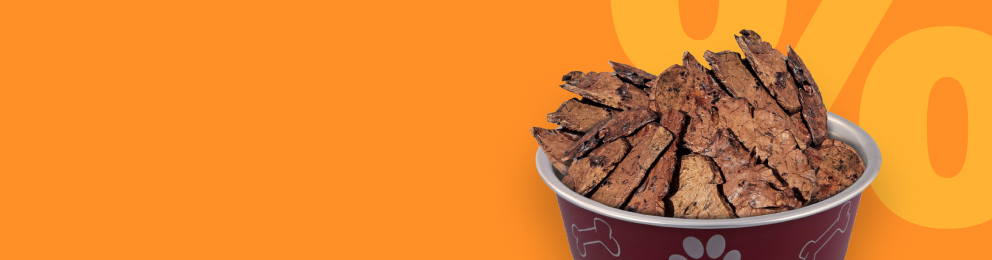
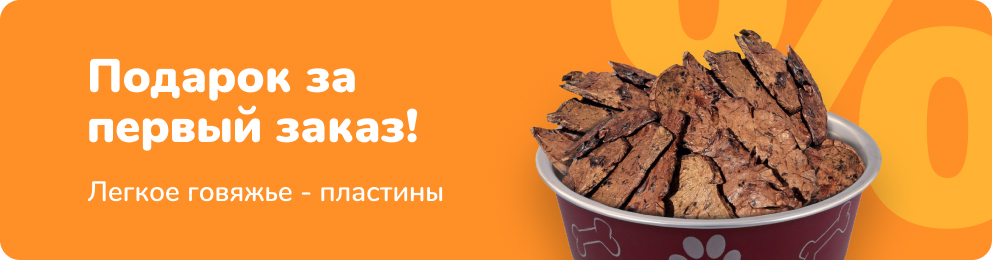
home page

diff --git a/src/pages/HomePage/home-page.jsx b/src/pages/HomePage/home-page.jsx
@@ -1,7 +1,9 @@
 import { Banner } from "../../components/Banner/banner"
 import { Hero } from "../../components/Hero/hero"
 import banner_sale from './img/banner.jpg';
-import banner_product from './img/banner_2.jpg';
+import banner_product1 from './img/banner_2.jpg';
+import banner_product2 from './img/banner_3.jpg';
+import h from './home.module.css'
 
 
 export const HomePage = () => {
@@ -40,24 +42,25 @@ export const HomePage = () => {
     return (
         <>
             <Hero />
-            <Banner 
-            extraClass='banner_big' 
-            title ='Подарок за первый заказ!'
-            subtitle ='Легкое говяжье - пластины'
-            bg={banner_sale}
-            colorBg="#FF8F27"
-            />
+            <div className="container">
+                <Banner
+                    extraClass='banner_big'
+                    bg={banner_sale}
+                />
+
+                <div className={h.banner__group}>
+                    <Banner
+                        extraClass='banner_middle'
+                        bg={banner_product1}
+                    />
 
 
-
-            <Banner 
-            extraClass='banner_middle'
-            title="Наборы"
-            subtitle="для дрессировки"
-            bg={banner_product}
-            price='от 840р'
-            colorBg="#D8A217"
-             />
+                    <Banner
+                        extraClass='banner_middle'
+                        bg={banner_product2}
+                    />
+                </div>
+            </div>
         </>
-    ) 
+    )
 }

diff --git a/src/components/Banner/banner.jsx b/src/components/Banner/banner.jsx
@@ -1,13 +1,10 @@
 import cn from 'classnames'
-import s from './index.module.css'
+import b from './banner.module.css'
 
 
-export const Banner = ({title, subtitle, bg, price, extraClass, colorBg}) => {
+export const Banner = ({bg, extraClass}) => {
     return (
-        <div className={cn(s.banner, { [s[extraClass]]: !!extraClass})} style={{backgroundImage: `url(${bg})`, backgroundColor:colorBg}}>
-            <h2 className={s.title}>{title}</h2>
-            <h2 className={s.subtitle}>{subtitle}</h2>
-            <span className={s.price}>{price}</span>
+        <div className={cn(b.banner, { [b[extraClass]]: !!extraClass})} style={{backgroundImage: `url(${bg})`}}>
         </div>
     )
 }

diff --git a/src/components/Banner/banner.module.css b/src/components/Banner/banner.module.css
@@ -1,0 +1,36 @@
+.banner {
+    /* width: 100%; */
+    display: flex;
+    background-size: contain;
+    background-repeat: no-repeat;
+}
+
+
+.banner_middle {
+    width: 50%;
+    min-height: 220px;
+}
+
+.banner_big {
+    width: 100%;
+    min-height: 260px;
+}
+
+@media (max-width: 375px) {
+    
+    .banner {
+        width: 100%;
+        display: flex;
+        /* background-size: cover; */
+    }
+    .banner_big {
+        min-height: 152px;
+    }
+
+    
+    .banner_middle {
+        width: 100%;
+        min-height: 152px;
+    }
+
+}

diff --git a/src/pages/HomePage/home.module.css b/src/pages/HomePage/home.module.css
@@ -1,0 +1,17 @@
+.banner__group {
+    display: flex;
+    /* justify-content: space-between; */
+    width: 100%;
+}
+
+
+@media (max-width: 375px) {
+
+    .banner__group {
+
+        flex-direction: column;
+        /* width: 100%; */
+
+    }
+
+}

diff --git a/src/components/Hero/hero.jsx b/src/components/Hero/hero.jsx
@@ -1,5 +1,5 @@
 import { Link } from 'react-router-dom';
-import s from './index.module.css';
+import s from './hero.module.css';
 import banner from './img/banner.png'
 import arrow from './img/arrow.svg'
 import cn from 'classnames';
